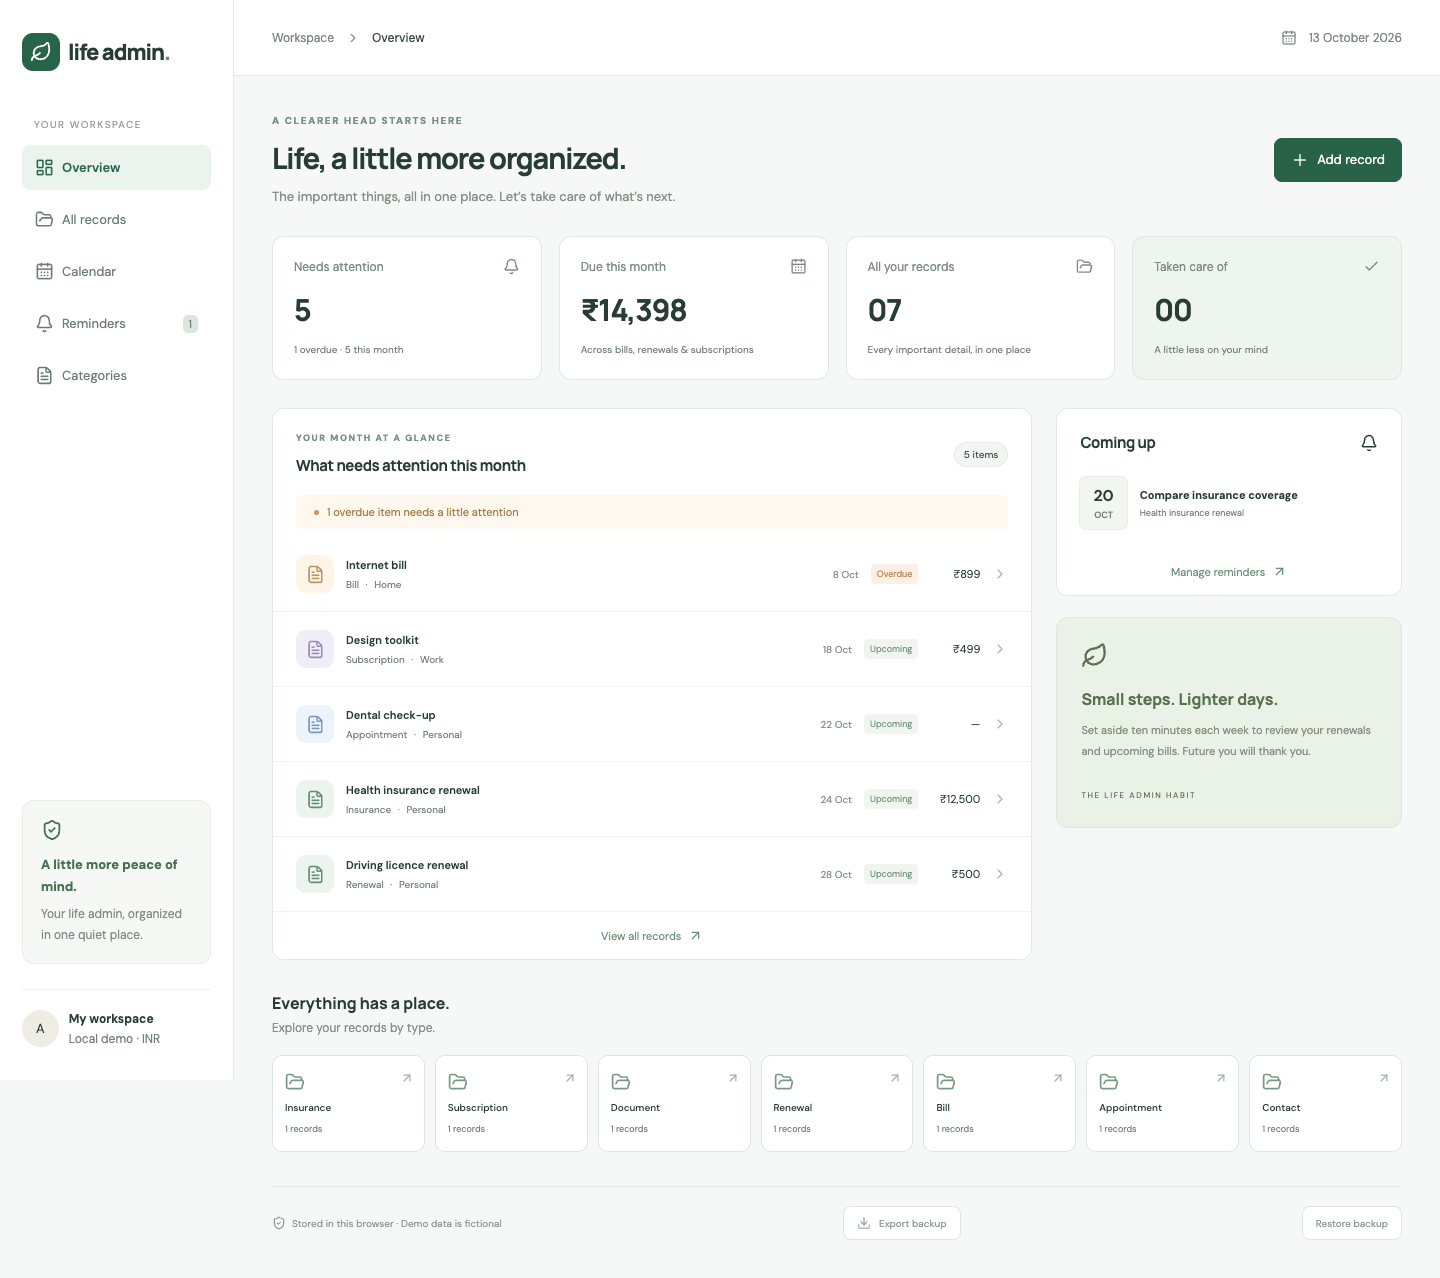
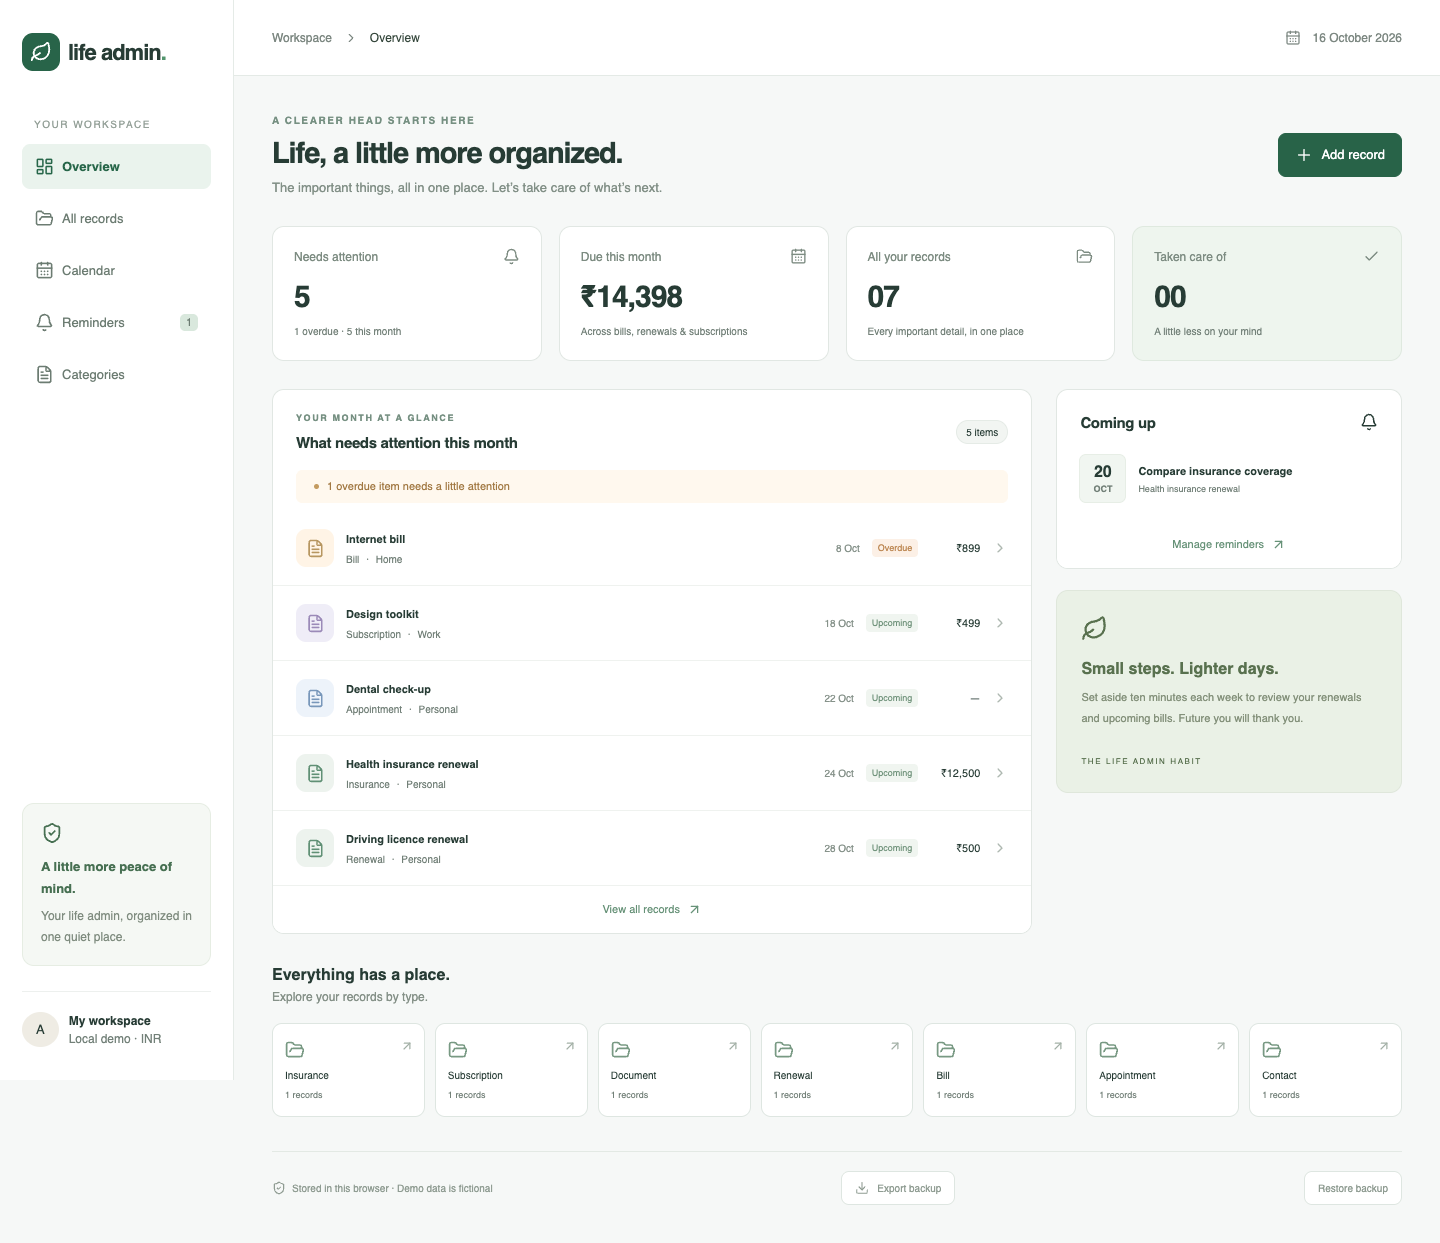
release: finalize portfolio MVP 1.0.0 and verify demo captures

diff --git a/tests/browser/app.spec.ts b/tests/browser/app.spec.ts
@@ -1,4 +1,10 @@
 import { test, expect } from "@playwright/test";
+
+// Exercise the supported system-font fallback without third-party network delays.
+test.beforeEach(async ({ context }) => {
+  await context.route(/^https:\/\/fonts\.(googleapis|gstatic)\.com\//, (route) => route.abort());
+});
+
 test("record CRUD, attachment persistence and categories", async ({ page }) => {
   await page.goto("/");
   await expect(
@@ -287,15 +293,21 @@ test("calendar navigation, filters, completion and mobile layout", async ({
   await expect(
     page.getByRole("button", { name: "2026-10-13, 0 records", exact: true }),
   ).toHaveAttribute("aria-pressed", "true");
+  // Resume painting before resizing: a paused clock can duplicate full-page tiles.
+  await page.clock.resume();
   await page.setViewportSize({ width: 1440, height: 1080 });
-  await page.clock.runFor(100);
+  await page.evaluate(() => new Promise<void>((resolve) => {
+    requestAnimationFrame(() => requestAnimationFrame(() => resolve()));
+  }));
   await page.evaluate(() => window.scrollTo(0, 0));
   await page.screenshot({ path: "docs/calendar.png", fullPage: true });
   await page.setViewportSize({ width: 390, height: 844 });
   expect(
     await page.evaluate(() => document.documentElement.scrollWidth),
   ).toBeLessThanOrEqual(390);
-  await page.clock.runFor(100);
+  await page.evaluate(() => new Promise<void>((resolve) => {
+    requestAnimationFrame(() => requestAnimationFrame(() => resolve()));
+  }));
   await page.evaluate(() => window.scrollTo(0, 0));
   await page.screenshot({ path: "docs/calendar-mobile.png", fullPage: true });
 });

diff --git a/docs/PROGRESS.md b/docs/PROGRESS.md
@@ -73,3 +73,11 @@ Prepared version 1.0.0-rc.1 with a shorter README, separate usage/architecture g
 Review found that generating “Review ” plus a maximum-length record title could exceed backup's reminder limit. Generated reminders now fit 100 code units without leaving a dangling high surrogate. Unit round trips cover ASCII and emoji boundaries; a browser regression creates a long-titled record, adds a reminder and exports successfully. Existing stored reminders are preserved. An existing rollback/retry browser test exposed an immediate-reload race; it now waits for the successful save to close the editor before reloading.
 
 Verification from a fresh dependency install: lint, 29 unit tests, production build and all 19 Chrome browser tests passed (48 total). A tracked-file credential-pattern scan found no matches; no claim of an exhaustive security audit is made. Test-generated image changes were discarded because this change does not alter the visible layout; final screenshot review remains on October 16. Remote CI is triggered by the candidate push. Final release checks, any verified issue fixes and automation pause remain scheduled for October 16.
+
+## October 16, 2026 — day 7, portfolio release
+
+Completed the scoped portfolio review and prepared version 1.0.0 with release notes. Confirmed the candidate's remote CI passed, no open GitHub issues were reported, and the checkout/remote matched before starting. Reviewed refreshed dashboard, calendar and record-details screenshots at desktop and 390px mobile widths using fictional data. Local README/documentation links resolve, and tracked-file scans found no credential-pattern matches, environment files or private-key files. This is not an exhaustive security audit.
+
+Final verification: lint, 29 unit tests, production build and all 19 Chrome scenarios passed. The first browser run had two timeouts; those cases passed in isolation, and a second run showed inconsistent navigation delays. Browser checks now block Google Fonts and exercise the supported system-font fallback, removing that external dependency; the complete suite then passed in 12.3 seconds. Visual inspection found duplicated mobile calendar screenshot tiles with the mocked clock: capture now resumes painting and waits two frames after resize. The focused calendar test passed and its corrected screenshot was reviewed. CI also runs lint from this revision onward.
+
+The release publication procedure verifies remote CI for this exact commit before creating the v1.0.0 tag/release, then shuts down the seven-day automation. No new application features or artificial activity were added for remaining windows. The project remains a browser-local MVP with unencrypted manual backups, no backend/authentication/sync/external notifications, and Chrome-only automated browser coverage. Setup, architecture, demo and honest resume notes are complete; no hosted deployment or production-security claim is made.

diff --git a/docs/RELEASE_CHECKLIST.md b/docs/RELEASE_CHECKLIST.md
@@ -1,6 +1,6 @@
 # Portfolio release checklist
 
-Target final review: **October 16, 2026 (Asia/Kolkata)**. Documentation can be prepared before that date; preparation does not claim the final release is complete.
+Final review: **October 16, 2026 (Asia/Kolkata)**. Version 1.0.0 portfolio release payload verified locally; publication is gated on passing CI for the exact release commit.
 
 ## Candidate review — October 15
 
@@ -13,13 +13,14 @@ Remote CI runs on every push; confirm its result for the candidate revision befo
 
 ## Final review — October 16
 
-- [ ] Fetch remote history and confirm no other writer/unrelated changes.
-- [ ] Check final candidate CI and any newly reported issues.
-- [ ] Review desktop/mobile screenshots against the current UI.
-- [ ] Check tracked files for accidental secrets or personal data; use only fictional demo data.
-- [ ] Confirm README setup and portfolio/demo links work.
-- [ ] Record final verification and remaining limitations in PROGRESS.md.
-- [ ] Mark the release complete only after these checks; tag only the verified revision if creating a release.
-- [ ] Pause the seven-day automation when finished. Do not create filler changes for unused work windows.
+- [x] Fetch remote history and confirm no other writer/unrelated changes.
+- [x] Check final candidate CI and any newly reported issues.
+- [x] Review desktop/mobile screenshots against the current UI.
+- [x] Check tracked files for accidental secrets or personal data; use only fictional demo data.
+- [x] Confirm README setup and portfolio/demo links work.
+- [x] Record final verification and remaining limitations in PROGRESS.md.
+- [x] Prepare version 1.0.0, release notes and final progress evidence.
+
+Publication procedure: push this payload, confirm CI for its exact commit, then create `v1.0.0` and its GitHub release. Shut down the seven-day automation after successful publication; the completion notification records that action. Do not create filler changes for unused windows.
 
 No external deployment, hosted URL, encryption or full accessibility audit is claimed. MIT covers this project's source; dependencies retain their own licenses.

diff --git a/README.md b/README.md
@@ -57,7 +57,7 @@ src/App.tsx         Dashboard, record editor and management views
 src/App.css         Responsive layouts and component styles
 src/index.css       Typography and global styles
 tests/             Domain/storage tests and browser flows
- docs/              Screenshots, development plan and progress
+docs/              Screenshots, development plan and progress
 ```
 
 The app saves a single snapshot transactionally. UI state updates only after the write succeeds, so a failed write does not pretend to have persisted data. This intentionally simple design suits a small single-user portfolio app; each save compares the loaded revision in the same IndexedDB transaction, rejecting stale snapshots from another tab. A larger version should use individual object stores and finer-grained conflict resolution.
@@ -72,7 +72,7 @@ Data belongs to this browser and origin. Clearing site data removes it. Use fict
 
 Start with the [five-minute demo](docs/DEMO.md), then read the [architecture](docs/ARCHITECTURE.md) and [usage guide](docs/USAGE.md). [Portfolio notes](docs/PORTFOLIO.md) include accurate resume bullets and design tradeoffs.
 
-The project is preparing for its October 16 release. See the [release checklist](docs/RELEASE_CHECKLIST.md), [seven-day plan](docs/DEVELOPMENT_PLAN.md) and [actual progress](docs/PROGRESS.md). Work windows are opportunities for useful changes, not commit quotas; commits use actual timestamps.
+Version **1.0.0** completes the scoped seven-day portfolio MVP. See the [release checklist](docs/RELEASE_CHECKLIST.md), [seven-day plan](docs/DEVELOPMENT_PLAN.md) and [actual progress](docs/PROGRESS.md). Work windows are opportunities for useful changes, not commit quotas; commits use actual timestamps.
 
 Developed with AI assistance. Understand and review the implementation before discussing it in interviews. No adoption or performance metrics are claimed without measurement.
 

diff --git a/docs/RELEASE_NOTES.md b/docs/RELEASE_NOTES.md
@@ -1,0 +1,18 @@
+# Life Admin Dashboard 1.0.0
+
+A browser-local portfolio MVP for managing insurance, subscriptions, documents, renewals, bills, appointments and important contacts.
+
+- Monthly attention dashboard, record/category CRUD, linked reminders and downloadable attachments.
+- Due-date calendar, structured contacts and monthly/yearly renewals with month-end/leap-day handling.
+- Validated portable backup/restore including attachment bytes, transactional storage migration and stale-tab conflict rejection.
+- Responsive layouts, native modal keyboard behavior, fictional seed data and reviewer/architecture/resume guides.
+
+## Verification
+
+29 unit tests, 19 Chrome browser scenarios, lint and a TypeScript production build. CI repeats verification on pushes. Browser checks block Google Fonts and exercise the supported system-font fallback; screenshots contain fictional demo data.
+
+## Scope and limits
+
+Data stays in IndexedDB for this browser/origin. There is no backend, authentication, encryption, cross-device sync, payment processing or external notification delivery. Backups are unencrypted. Attachment checks are client-side convenience checks, not malware scanning. Chrome keyboard coverage is not a full accessibility or cross-browser audit. No hosted deployment, adoption metrics or production readiness is claimed.
+
+Built with React, TypeScript, Vite, Zod and IndexedDB, with AI assistance. Source is MIT licensed; dependencies keep their own licenses. See README.md and docs/PROGRESS.md for setup and actual development history.

diff --git a/docs/ARCHITECTURE.md b/docs/ARCHITECTURE.md
@@ -37,6 +37,6 @@ Monthly/yearly successors advance from the previous due date. Stored anchors pre
 
 ## Validation evidence and boundaries
 
-Vitest covers domain/date rules, storage migrations/transactions and backup bytes/limits. Playwright covers real Chrome interactions, keyboard focus, responsive views, downloads/restores and competing tabs. CI runs unit checks, a production build and the browser suite. Chrome coverage is not a cross-browser or full assistive-technology audit.
+Vitest covers domain/date rules, storage migrations/transactions and backup bytes/limits. Playwright covers real Chrome interactions, keyboard focus, responsive views, downloads/restores and competing tabs. CI runs unit checks, a production build and the browser suite. Browser tests block Google Fonts to exercise the supported system-font fallback without third-party network delays; captured test screenshots therefore use fallback fonts. Chrome coverage is not a cross-browser or full assistive-technology audit.
 
 There is no authentication, encryption, backend or cross-device sync. Browser storage may be cleared or evicted. Use fictional information for portfolio demonstrations. Client-side MIME checks do not authenticate file contents or scan for malware.
